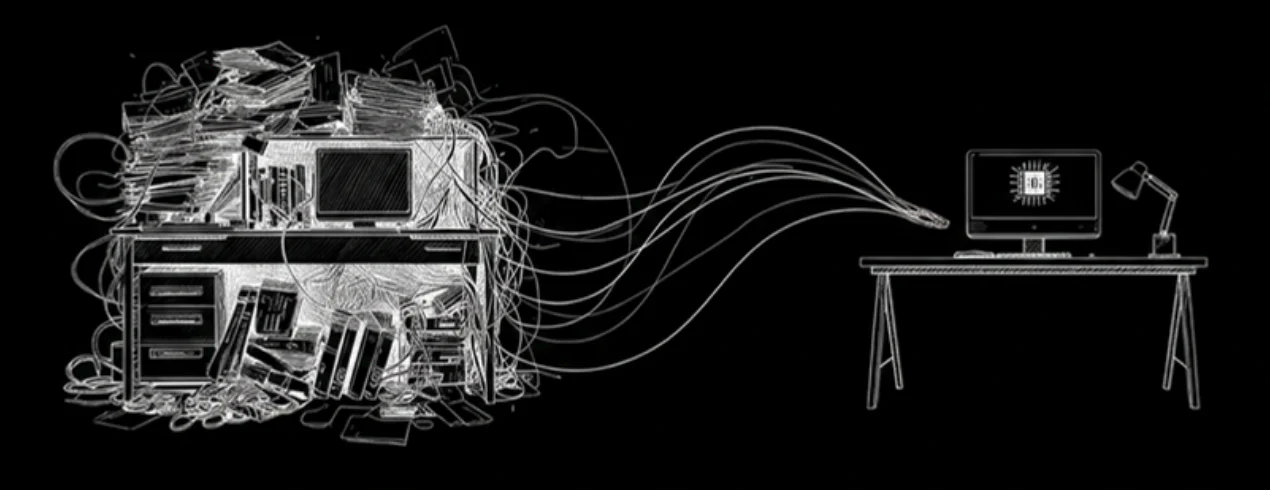
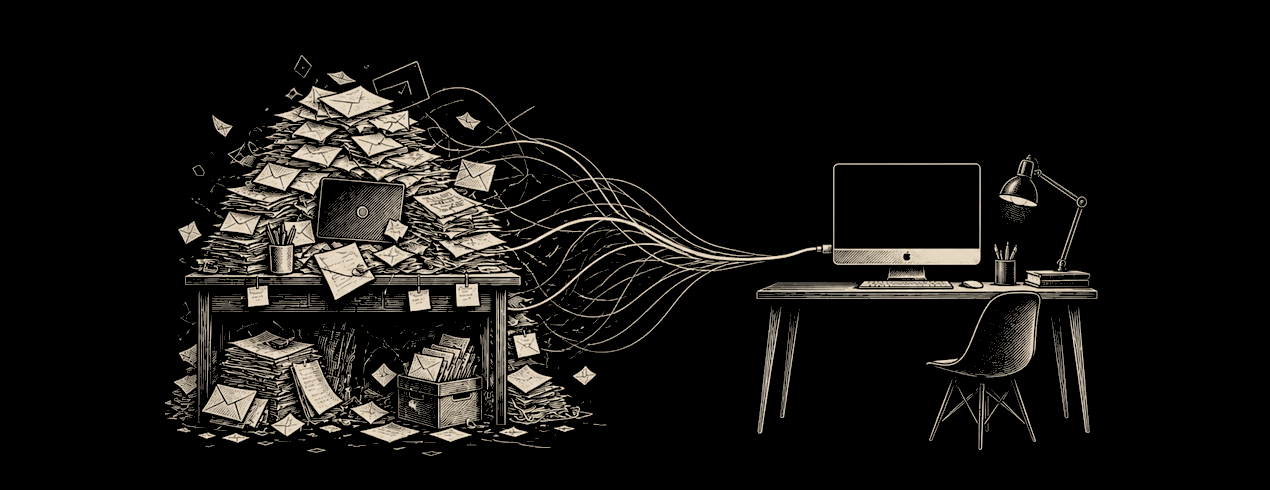
Portfolio-Feinschliff: Hero, Rechtsseiten und Kontakt
Desk-Zeichnung größer ohne mitwachsende Lampe, Scroll-Spy im Rechts-TOC,
schnellere Kontakt-Kuh und Kontaktmail auf hello@laas.website.

Changed region(s): [[0.0307, 0.0612, 0.952, 0.9184], [0.5835, 0.6429, 0.6449, 0.8878]]

diff --git a/portfolio/src/components/legal/LegalPage.tsx b/portfolio/src/components/legal/LegalPage.tsx
@@ -1,5 +1,6 @@
 "use client";
 
+import { useEffect, useState } from "react";
 import { usePathname } from "next/navigation";
 
 import LegalSection, {
@@ -17,10 +18,11 @@ const mark = (index: number) => String(index + 1).padStart(2, "0");
 /**
  * Die geteilte Hülle aller Rechtsseiten und der Fehlerseite.
  *
- * Client-Component, weil sie zwei Client-Dinge braucht: useLightChrome (die
- * feste Leiste muss über der Cremefläche dunkel schreiben) und TextReveal
- * (GSAP). Die Routen-Dateien darüber bleiben Server-Components und behalten
- * damit ihre `metadata` — die SEO-Angaben werden serverseitig gerendert.
+ * Client-Component, weil sie Client-Dinge braucht: useLightChrome (die feste
+ * Leiste muss über der Cremefläche dunkel schreiben), TextReveal (GSAP) und
+ * den Scroll-Spy fürs Inhaltsverzeichnis. Die Routen-Dateien darüber bleiben
+ * Server-Components und behalten damit ihre `metadata` — die SEO-Angaben
+ * werden serverseitig gerendert.
  */
 export default function LegalPage({
   eyebrow = "Rechtliches",
@@ -48,6 +50,62 @@ export default function LegalPage({
   useLightChrome();
   const pathname = usePathname();
   const hasIndex = Boolean(sections && sections.length > 2);
+  const [activeId, setActiveId] = useState<string | null>(
+    sections?.[0]?.id ?? null,
+  );
+
+  // Welches Kapitel gerade unter der festen Leiste liegt — steuert die
+  // Hervorhebung im sticky Verzeichnis. Die Leselinie liegt auf halber
+  // Viewport-Höhe: eine obere Linie (wie 160px) wird von kurzen Schlusskapiteln
+  // oft nie erreicht, weil die Seite nicht weit genug scrollt — dann springt
+  // die Markierung vom vorvorletzten direkt auf den letzten Punkt. Auf der
+  // Mitte kreuzt jede Überschrift die Linie, sobald sie im Lesefeld steht.
+  useEffect(() => {
+    if (!hasIndex || !sections?.length) return;
+
+    type ScrollDriver = {
+      on: (event: string, cb: () => void) => void;
+      off: (event: string, cb: () => void) => void;
+    };
+
+    const update = () => {
+      const line = window.innerHeight / 2;
+      let current = sections[0].id;
+      for (const section of sections) {
+        const el = document.getElementById(section.id);
+        if (!el) continue;
+        if (el.getBoundingClientRect().top <= line) current = section.id;
+      }
+
+      // Ganz am Anschlag: ein sehr kurzes letztes Kapitel kann seine Überschrift
+      // nicht bis zur Mitte hochschaffen. Erst dann, nicht vorher, gewinnt es
+      // fest — sonst würde der vorletzte Punkt übersprungen.
+      const lastId = sections[sections.length - 1].id;
+      const maxScroll = Math.max(
+        0,
+        document.documentElement.scrollHeight - window.innerHeight,
+      );
+      if (current !== lastId && window.scrollY >= maxScroll - 1) {
+        current = lastId;
+      }
+
+      setActiveId(current);
+    };
+
+    update();
+
+    // Lenis ab 768px; darunter (und bei reduced-motion) nur native Scroll.
+    const lenis = (window as unknown as { __lenis?: ScrollDriver }).__lenis;
+    lenis?.on("scroll", update);
+    window.addEventListener("scroll", update, { passive: true });
+    window.addEventListener("resize", update);
+
+    return () => {
+      lenis?.off("scroll", update);
+      window.removeEventListener("scroll", update);
+      window.removeEventListener("resize", update);
+    };
+  }, [hasIndex, sections]);
 
   return (
     // Der Grund liegt am <main> und nicht an einem inneren Kasten: die Seite
@@ -188,19 +246,33 @@ export default function LegalPage({
                 Inhalt
               </span>
               <ol className="mt-5 space-y-1">
-                {sections.map((section, i) => (
-                  <li key={section.id}>
-                    <a
-                      href={`#${section.id}`}
-                      className="group flex gap-3 py-1 text-body-sm leading-snug text-[#6a6a6a] transition-colors duration-300 hover:text-[#0a0a0a]"
-                    >
-                      <span className="pt-[0.15em] font-mono text-caption text-[#b8afa2] transition-colors duration-300 group-hover:text-[#A07850]">
-                        {mark(i)}
-                      </span>
-                      {section.title}
-                    </a>
-                  </li>
-                ))}
+                {sections.map((section, i) => {
+                  const isActive = activeId === section.id;
+                  return (
+                    <li key={section.id}>
+                      <a
+                        href={`#${section.id}`}
+                        aria-current={isActive ? "location" : undefined}
+                        className={
+                          isActive
+                            ? "group flex gap-3 py-1 text-body-sm font-semibold leading-snug text-[#0a0a0a] transition-colors duration-300"
+                            : "group flex gap-3 py-1 text-body-sm leading-snug text-[#8a8278] transition-colors duration-300 hover:text-[#0a0a0a]"
+                        }
+                      >
+                        <span
+                          className={
+                            isActive
+                              ? "pt-[0.15em] font-display text-caption font-bold tracking-tighter tabular-nums text-[#A07850] transition-colors duration-300"
+                              : "pt-[0.15em] font-display text-caption font-bold tracking-tighter tabular-nums text-[#c4bbb0] transition-colors duration-300 group-hover:text-[#A07850]"
+                          }
+                        >
+                          {mark(i)}
+                        </span>
+                        {section.title}
+                      </a>
+                    </li>
+                  );
+                })}
               </ol>
             </nav>
           )}

diff --git a/portfolio/src/components/sections/hero/hero.css b/portfolio/src/components/sections/hero/hero.css
@@ -12,24 +12,25 @@
    Lampe maßstabsgetreu darüber. */
 
 .hero-lamp {
-  /* Kasten des <img>: w-[min(960px,91vw)] in Hero.tsx */
-  --desk-box: min(960px, 91vw);
+  /* Kasten des Desk-Bilds: w-[min(1040px,94vw)] in Hero.tsx */
+  --desk-box: min(1040px, 94vw);
 
   /* Sobald max-h greift, skaliert object-contain die 1270×490 herunter und
      zentriert sie in ihrem Kasten — die Zeichnung ist dann schmaler als er.
-     1270/490 = 2.5918, also 32svh × 2.5918 = 82.94svh. */
-  --desk-w: min(var(--desk-box), 82.94svh);
+     1270/490 = 2.5918, also 35svh × 2.5918 = 90.71svh. */
+  --desk-w: min(var(--desk-box), 90.71svh);
   --desk-h: calc(var(--desk-w) / 2.5918);
 
   /* Oberkante der Zeichnung, gemessen von der Unterkante der Section: das
      <img> steht per items-end mit mb-[11svh] über der Balkenkante. */
   --desk-top: calc(11svh + var(--desk-h));
 
-  /* Gesamtgröße der Lampe. 1 wäre der Maßstab des Canva-Blatts, bezogen auf
-     die Breite der Zeichnung. Kleiner heißt: zierlichere Birne UND schmalerer
-     Kegel, weil der Öffnungswinkel derselbe bleibt. Auf dem Handy bleibt sie
-     größer — die Zeichnung ist dort ohnehin schmal, und bei 0.76 wäre das
+  /* Lampengröße entkoppelt von der Desk-Zeichnung: bleibt auf dem früheren
+     Desk-Maß (960px / 32svh), auch wenn die Zeichnung größer wird.
+     --lamp-scale: 1 wäre der Maßstab des Canva-Blatts. Auf dem Handy bleibt
+     sie größer — die Zeichnung ist dort ohnehin schmal, und bei 0.76 wäre das
      Glas nur noch gut 15px breit und läse sich als Fussel. */
+  --lamp-w: min(960px, 91vw, 82.94svh);
   --lamp-scale: 0.95;
 
   /* Höhe des Glases über der Oberkante der Zeichnung.
@@ -85,8 +86,11 @@
 
 @media (min-width: 768px) {
   .hero-lamp {
-    /* md:max-h-[37svh] → 37svh × 2.5918 = 95.9svh */
-    --desk-w: min(var(--desk-box), 95.9svh);
+    /* md:max-h-[40svh] → 40svh × 2.5918 = 103.67svh */
+    --desk-w: min(var(--desk-box), 103.67svh);
+    /* Früheres md-Desk-Maß (37svh × 2.5918 = 95.9svh), damit die Lampe
+       nicht mit der größeren Zeichnung mitwächst. */
+    --lamp-w: min(960px, 91vw, 95.9svh);
     --lamp-scale: 0.76;
   }
 }
@@ -101,15 +105,16 @@
 
   /* Grundlage ist die Oberkante der Zeichnung, plus --lamp-hang. Davon
      abgezogen wird, wie weit das Glas in der Grafik über deren Unterkante
-     sitzt (31.857% der Zeichnungsbreite, mitskaliert) — damit landet das Glas
+     sitzt (31.857% von --lamp-w, mitskaliert) — damit landet das Glas
      genau auf der gewünschten Höhe, egal wie groß die Lampe ist. */
   bottom: calc(
-    var(--desk-top) + var(--lamp-hang) - 0.31857 * var(--desk-w) *
+    var(--desk-top) + var(--lamp-hang) - 0.31857 * var(--lamp-w) *
       var(--lamp-scale)
   );
 
-  /* 1587/1271 = 1.24863: so viel breiter als die Zeichnung ist die Grafik. */
-  width: calc(var(--desk-w) * 1.24863 * var(--lamp-scale));
+  /* 1587/1271 = 1.24863: so viel breiter als die Zeichnung ist die Grafik.
+     Bezogen auf --lamp-w, nicht auf die ggf. größere Desk-Zeichnung. */
+  width: calc(var(--lamp-w) * 1.24863 * var(--lamp-scale));
   height: auto;
   max-width: none;
 

diff --git a/portfolio/src/components/legal/LegalSection.tsx b/portfolio/src/components/legal/LegalSection.tsx
@@ -11,8 +11,9 @@ export interface LegalSectionData {
  *
  * Die Nummer steht ÜBER dem Titel und nicht daneben: die Textspalte ist auf
  * 68ch Lesebreite gedeckelt, eine hängende Nummernspalte würde davon abbeissen.
- * Die Marke selbst — zweistellig, Mono, in Versalabstand — ist dieselbe, die
- * „Leistungen" (SERVICES[].mark) und die Projektzählung schon tragen.
+ * Die Marke selbst — zweistellig, Display, tabular-nums — ist dieselbe, die
+ * „Leistungen" und die Projektzählung schon tragen. Display statt Mono: die
+ * Mono-Null trägt einen Schrägstrich und fällt aus der Zahlenreihe.
  *
  * Vergeben wird sie von LegalPage aus der Reihenfolge, nicht von Hand: ein
  * nachträglich eingeschobener Abschnitt hätte sonst fünfzehn Nummern und
@@ -38,7 +39,7 @@ export default function LegalSection({
       // also genau die Breiten ab, die die jeweils andere auslässt.
       className="mt-12 scroll-mt-32 border-t border-[#0a0a0a]/10 pt-8 md:mt-16 md:pt-10"
     >
-      <span className="block font-mono text-caption tracking-[0.2em] text-[#9a9a9a]">
+      <span className="block font-display text-caption font-bold tracking-tighter tabular-nums text-[#9a9a9a]">
         {mark}
       </span>
       <h2 className="mt-3 font-display text-[clamp(1.25rem,2.2vw,1.75rem)] font-bold leading-tight tracking-tight text-[#0a0a0a]">

diff --git a/portfolio/src/components/sections/GiganticCTA.tsx b/portfolio/src/components/sections/GiganticCTA.tsx
@@ -246,11 +246,11 @@ export default function GiganticCTA() {
               Innenabstand ab, damit die Gruppe auch auf 320px in den Container
               passt. */}
           <div className="relative inline-flex items-center justify-center gap-1.5 sm:gap-0">
-            {/* Die Kuh bringt ihre Bewegung selbst mit: ein 2.7-Sekunden-Loop
+            {/* Die Kuh bringt ihre Bewegung selbst mit: ein 2.0-Sekunden-Loop
                 als animiertes WebP (mit Higgsfield aus dem Original-PNG
                 erzeugt, Vor- und Rücklauf aneinandergehängt, damit der Loop
-                keinen Sprung hat). 65 ms pro Bild, an den beiden Umkehrpunkten
-                110 ms — die kurze Pause nimmt dem Richtungswechsel das
+                keinen Sprung hat). 48 ms pro Bild, an den beiden Umkehrpunkten
+                82 ms — die kurze Pause nimmt dem Richtungswechsel das
                 Mechanische. Die 384er-Bühne ist breiter als die Kuh —
                 der freie Rand ist auf das Cremeweiß der Karte abgestimmt und
                 nach außen weich ausgeblendet, damit kein Rechteck sichtbar

diff --git a/portfolio/src/components/sections/Hero.tsx b/portfolio/src/components/sections/Hero.tsx
@@ -579,11 +579,11 @@ export default function Hero() {
           {/* eslint-disable-next-line @next/next/no-img-element */}
           <img
             ref={illuRef}
-            src="/hero-desk.webp"
+            src="/hero-desk.webp?v=inbox-4"
             alt=""
             width={1270}
             height={490}
-            className="mb-[11svh] w-[min(960px,91vw)] max-h-[32svh] md:max-h-[37svh] object-contain select-none opacity-0"
+            className="mb-[11svh] w-[min(1040px,94vw)] max-h-[35svh] md:max-h-[40svh] object-contain select-none opacity-0"
             style={{
               ["--wipe" as string]: -25,
               WebkitMaskImage:

diff --git a/portfolio/src/lib/constants.ts b/portfolio/src/lib/constants.ts
@@ -9,7 +9,7 @@ export const SITE_CONFIG = {
   tagline: "Code, die sich lebendig anfühlt",
   /** Live-Domain — Basis für metadataBase, OG-Tags, Sitemap und JSON-LD. */
   url: "https://laas.website",
-  email: "lucaarnoldi1993@gmail.com",
+  email: "hello@laas.website",
   socials: {
     github: "https://github.com/Lux593",
     linkedin: "https://www.linkedin.com/in/luca-arnoldi-2893521ba/",
